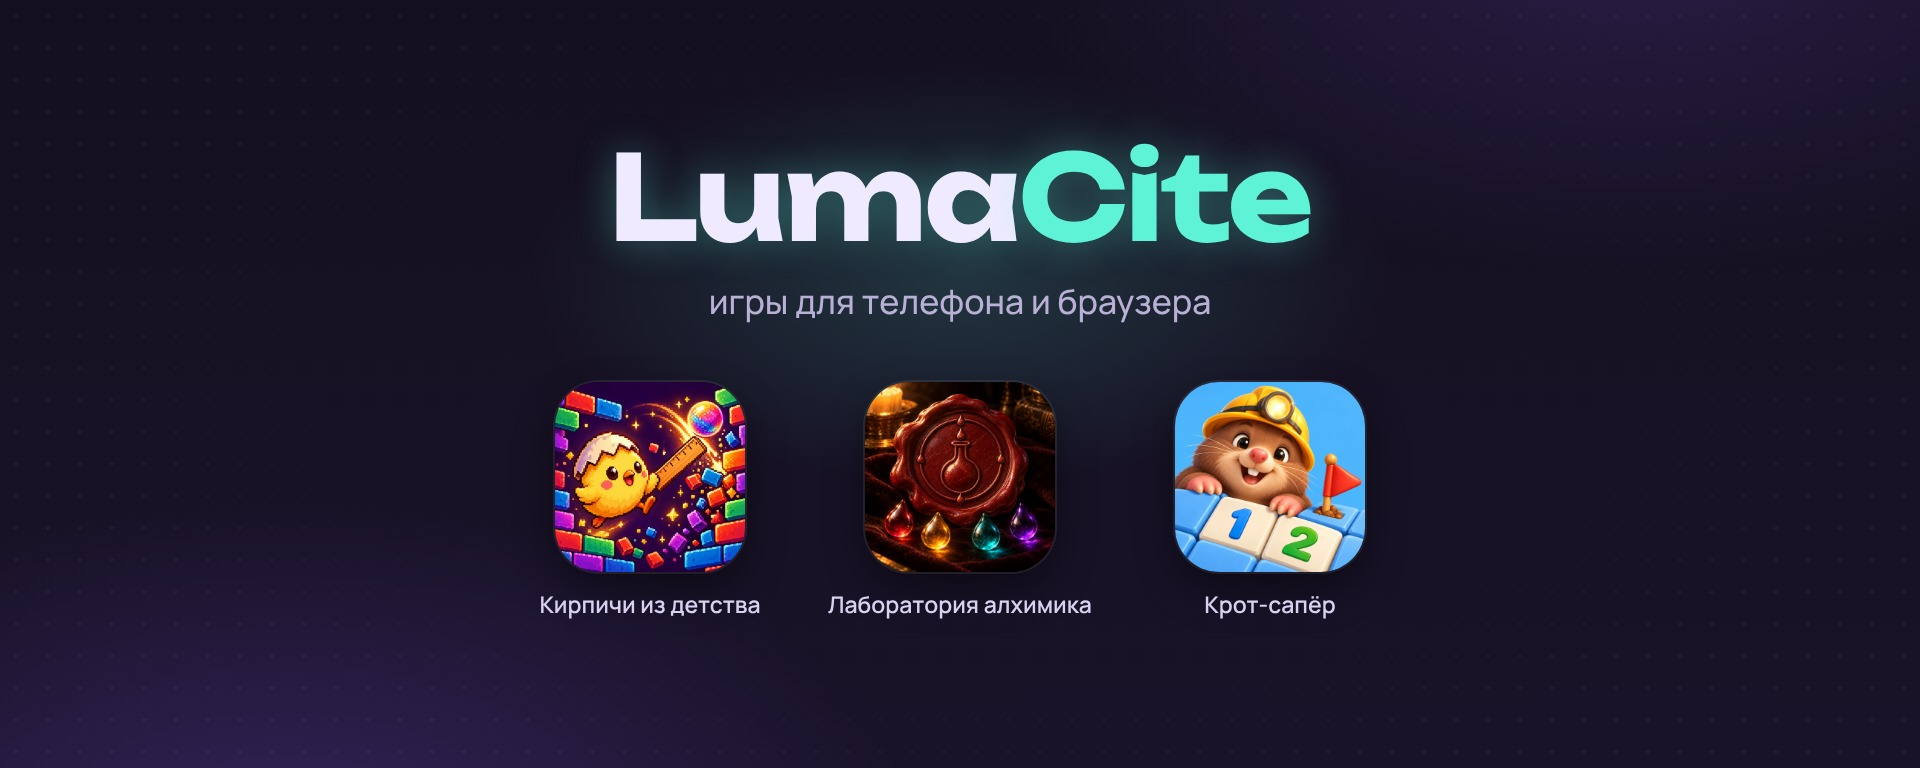
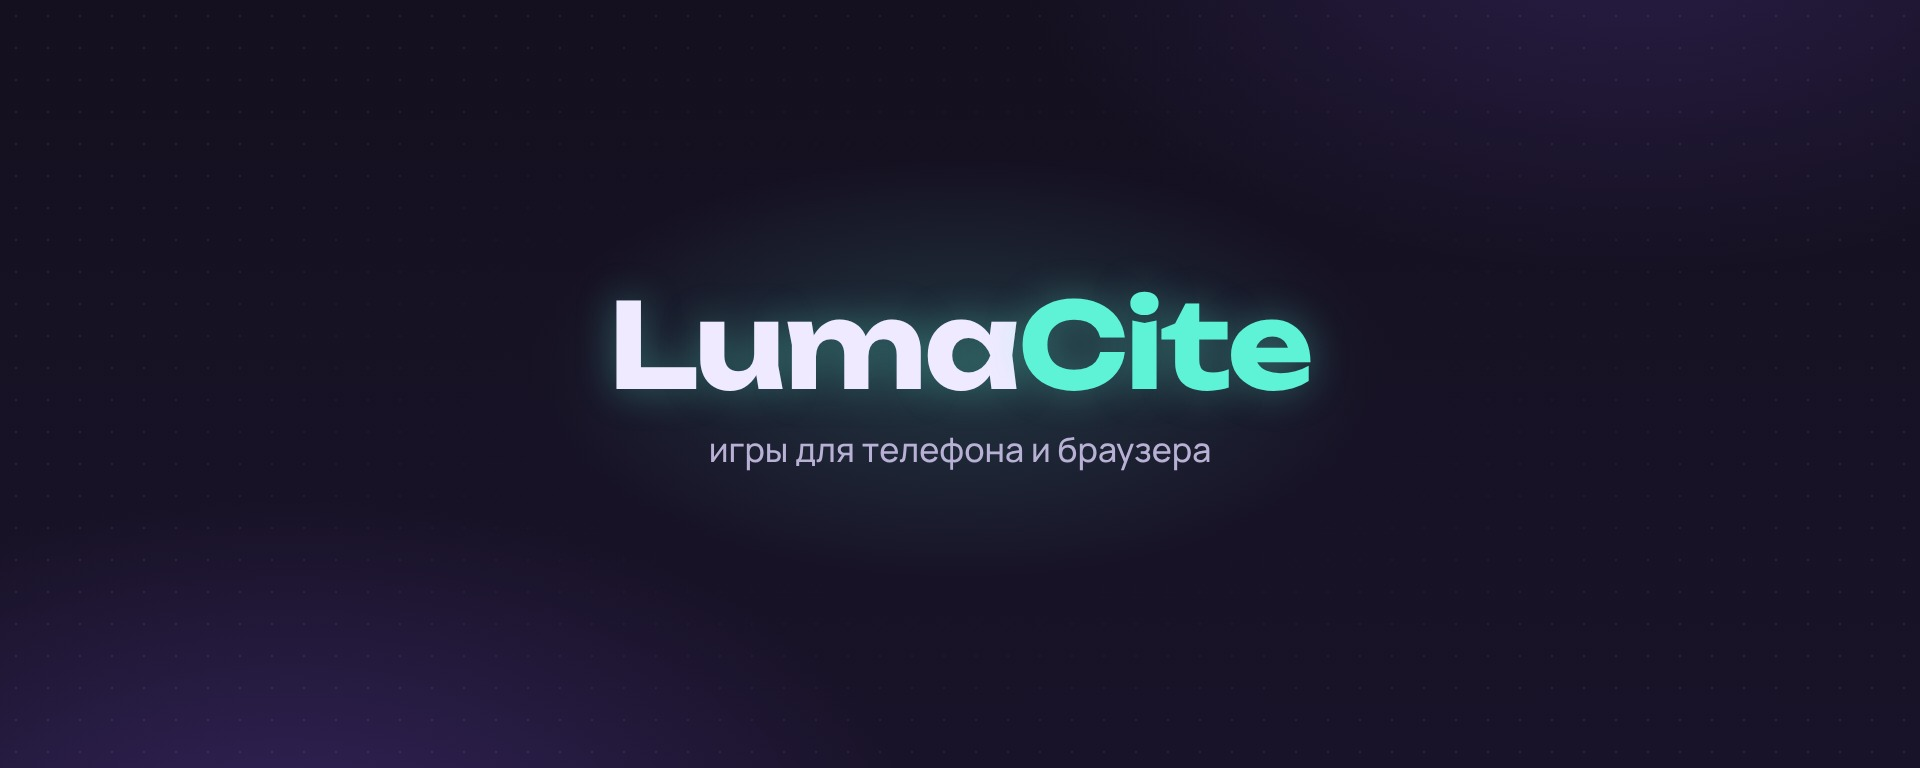
Обложка группы ВК без конкретных игр
Claude-Session: https://claude.ai/code/session_01CaujQN7dNjz2FYZAWyGjgA

diff --git a/brand/vk/cover.html b/brand/vk/cover.html
@@ -12,29 +12,19 @@
 html,body{margin:0}
 .c{width:1920px;height:768px;position:relative;overflow:hidden;
   background:
-    radial-gradient(620px 300px at 50% 36%, rgba(94,242,214,.16), transparent 70%),
+    radial-gradient(620px 300px at 50% 48%, rgba(94,242,214,.16), transparent 70%),
     radial-gradient(900px 500px at 15% 110%, rgba(140,90,255,.22), transparent 70%),
     radial-gradient(900px 500px at 85% -10%, rgba(140,90,255,.18), transparent 70%),
     linear-gradient(180deg,#14101f 0%,#191329 100%);
-  font-family:M;color:#efeaff;display:flex;flex-direction:column;align-items:center}
+  font-family:M;color:#efeaff;display:flex;flex-direction:column;align-items:center;justify-content:center}
 .dots{position:absolute;inset:0;background-image:radial-gradient(rgba(255,255,255,.07) 1.5px,transparent 1.6px);background-size:32px 32px;
   -webkit-mask-image:radial-gradient(900px 420px at 50% 50%, transparent 40%, #000 100%)}
-.mark{margin-top:138px;font-family:U;font-weight:700;font-size:118px;letter-spacing:-.02em;line-height:1;position:relative;
+.mark{margin-top:-10px;font-family:U;font-weight:700;font-size:118px;letter-spacing:-.02em;line-height:1;position:relative;
   text-shadow:0 0 38px rgba(94,242,214,.35)}
 .mark b{color:#5ef2d6;font-weight:700}
 .tag{margin-top:22px;font-weight:500;font-size:34px;color:#b9b0d6;position:relative}
-.row{margin-top:58px;display:flex;gap:60px;position:relative}
-.g{display:flex;flex-direction:column;align-items:center;gap:16px;width:250px}
-.g img{width:190px;height:190px;border-radius:44px;display:block;
-  box-shadow:0 0 0 2px rgba(255,255,255,.08),0 18px 40px rgba(0,0,0,.45)}
-.g span{font-weight:600;font-size:23px;color:#d8d1f0;white-space:nowrap}
 </style></head>
 <body><div class="c"><div class="dots"></div>
   <div class="mark">Luma<b>Cite</b></div>
   <div class="tag">игры для телефона и браузера</div>
-  <div class="row">
-    <div class="g"><img src="kirpichi.png"><span>Кирпичи из детства</span></div>
-    <div class="g"><img src="alchemist.png"><span>Лаборатория алхимика</span></div>
-    <div class="g"><img src="saper.png"><span>Крот-сапёр</span></div>
-  </div>
 </div></body></html>

diff --git a/brand/vk/render.py b/brand/vk/render.py
@@ -1,6 +1,6 @@
 # Рендер обложки (1920x768) и аватара (1500x1500) группы ВК из HTML.
 # Запуск: python3 render.py  (нужен Playwright с Chromium)
-# Новая игра: положить иконку рядом и добавить блок .g в cover.html.
+# Обложка без конкретных игр: только логотип и подпись.
 import os
 from playwright.sync_api import sync_playwright
 from PIL import Image
